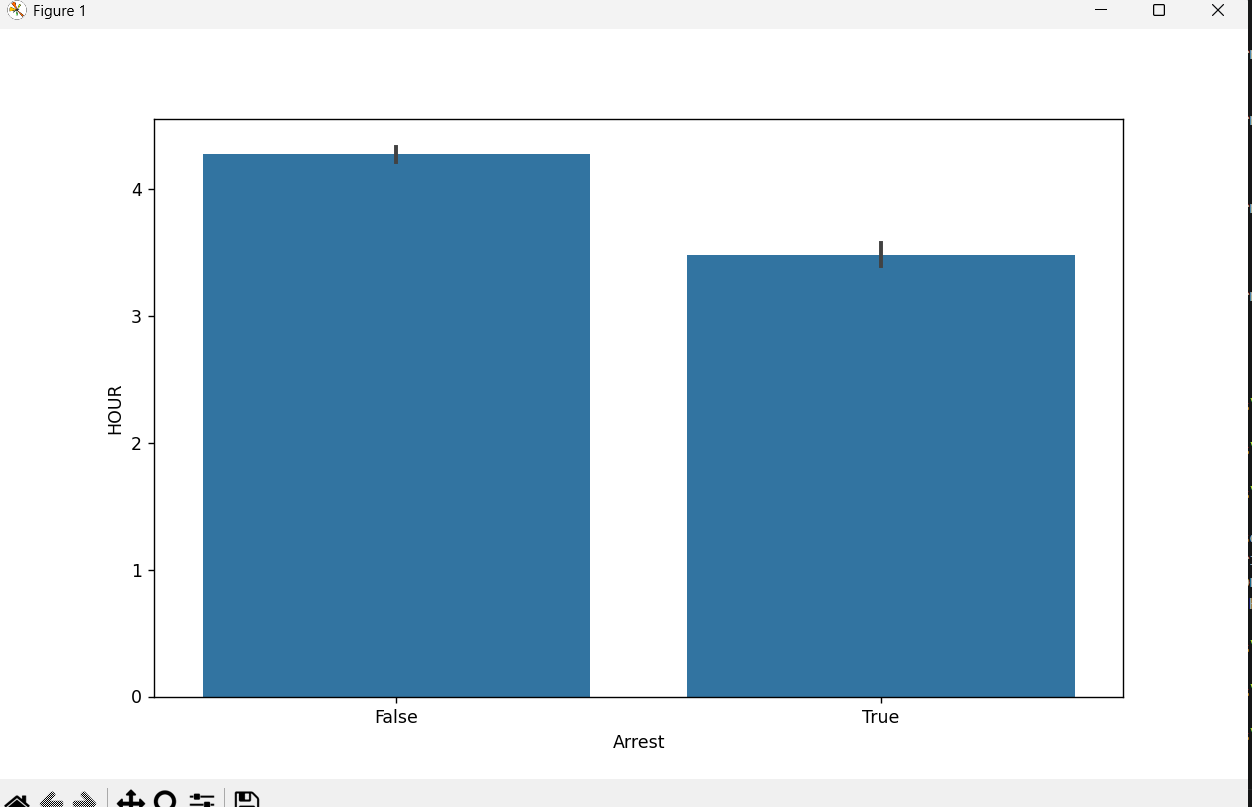
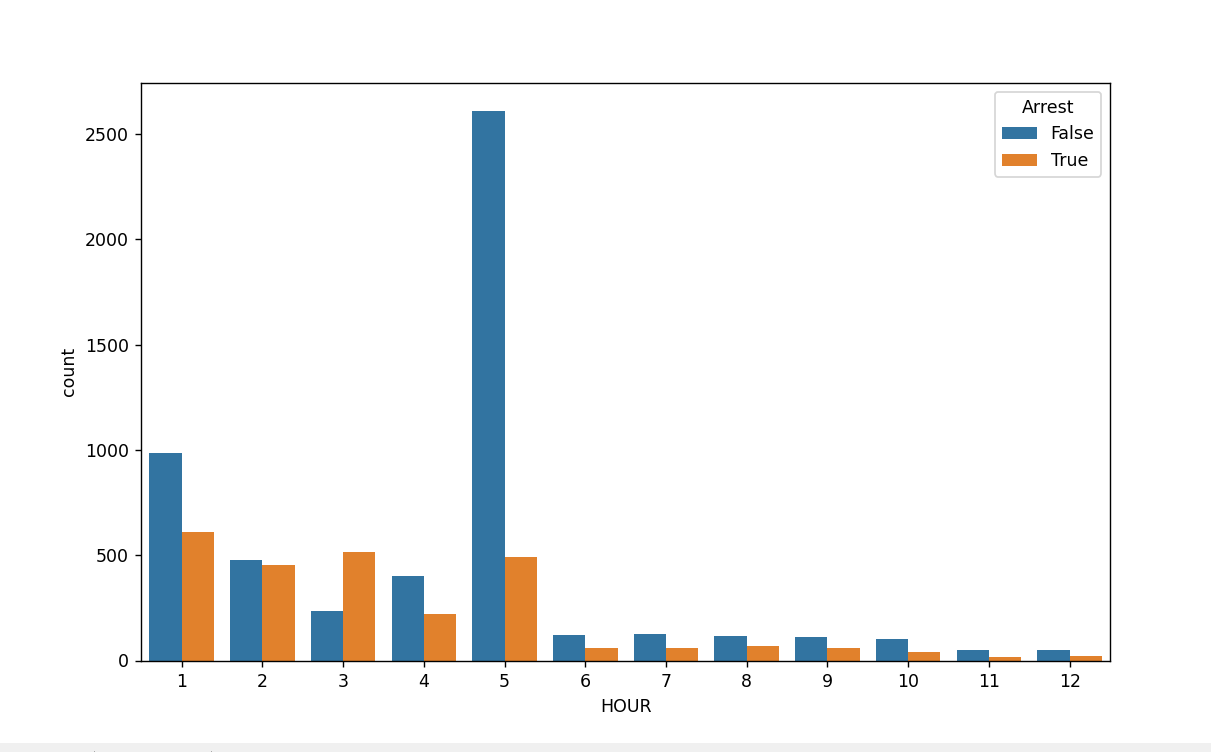
PHASE 2 AND 3
CONVERTED LIST TO NUMBER FORMAT AND REMOVED UNWANTED LIST

diff --git a/notebooks/ml.py b/notebooks/ml.py
@@ -4,22 +4,95 @@ import seaborn as sns
 from sklearn.tree import DecisionTreeClassifier
 from sklearn.model_selection import train_test_split 
 from sklearn.metrics import mean_absolute_error
+from sklearn.metrics import accuracy_score
 from sklearn.ensemble import RandomForestClassifier
 df=pd.read_csv('C:\\Users\\thoma\\Downloads\\cca\\data\\new.csv')
 #print(df.columns)
 #print(df.dtypes)
 
 # I am dropping Unamed, ID because they are not useful for the model
-df.drop(["Unnamed: 0","ID"],axis=1,inplace=True)
+df.drop(["Unnamed: 0","ID","Case Number","FBI Code","Updated On","Description","X Coordinate","Y Coordinate","Community Area","Ward","Beat","Year","Location","IUCR","Block"
+         ],axis=1,inplace=True)
 #print(df.columns)
 df["Date"] = pd.to_datetime(df["Date"], errors="coerce")
 #print(df.Date.dtypes)
 #print((str(df["Date"][1]))[11:])
 #print(df["Date"][1])
-df["HOUR"]=df["Date"].dt.year
+'''df["HOUR"]=df["Date"].dt.hour
 plt.figure(figsize=(10,6))
-sns.lineplot(x="HOUR",y="Arrest",data=df)
-plt.show()
+sns.countplot(x="HOUR",hue="Arrest",data=df)
+plt.show()'''
+df["YEAR"]=df["Date"].dt.year
 df["MONTH"]=df["Date"].dt.month
+df["HOUR"]=df["Date"].dt.hour
+
+df.drop(["Date"],axis=1,inplace=True)
+df["Primary Type"]=df["Primary Type"].replace({"THEFT":0,"ROBBERY":1,"WEAPONS VIOLATION":2,"SEX OFFENSE":3,})
+df=df.astype({"Primary Type":'int64'})
+print(df.dtypes)
+
+
+
+
+'''
+#Num of Non Arrests vs Arrests
+plt.figure(figsize=(10,6))
+sns.countplot(x="Arrest",data=df)
+plt.show()
+
+
+#Crime rate by hour
+plt.figure(figsize=(10,6))
+sns.countplot(x="HOUR",data=df)
+plt.show()
+
+#Crime rate by monnth
+plt.figure(figsize=(10,6))
+sns.countplot(x="MONTH",data=df)
+plt.show()
+
+#Which crimes result more in an arrest
+d=pd.crosstab(df["Primary Type"],df["Arrest"])
+#print(d.head())
+plt.figure(figsize=(10,6))
+sns.heatmap(data=d,annot=True)
+plt.show()
+
+plt.figure(figsize=(10,6))
+sns.countplot(x="District",hue="Arrest",data=df)
+plt.show()
+
+
+'''
+
+top_10_locations = df["Location Description"].value_counts().head(10).index
+#print(top_10_locations)
+
+# Trying to see if there is a relationship between location and arrest rate
+'''filtered_location_df = df[df["Location Description"].isin(top_10_locations)]
+print(filtered_location_df)
+print(filtered_location_df["Location Description"].value_counts())
+print(filtered_location_df)
+plt.figure(figsize=(10,6))
+sns.countplot(x="Location Description",hue="Arrest",data=filtered_location_df)
+plt.xticks(rotation=90)
+plt.show()'''
+topl = df["Location Description"].value_counts().index
+topl=list(topl)
+#print(len(topl))
+dict1={}
+for i in range(len(topl)):
+    dict1[topl[i]]=i
+#print(dict1)
+df["Location Description"]=df["Location Description"].replace(dict1)
+df=df.astype({"Location Description":'int64'})
+#print(df["Location Description"].dtypes)
+predict_list=["Primary Type","Location Description","District","YEAR","MONTH","HOUR","Domestic","Latitude","Longitude"]
+
+
+
+
+
+
 
 

diff --git a/mistakes.md b/mistakes.md
@@ -49,3 +49,49 @@ when u commit u can use two -m -m the first -m means the git name and the second
 
 git commit --amend --no-edit
 
+------------
+
+So a new command i learnt is countplot which basically counts the num of times something happens. 
+
+---------
+
+d=pd.crosstab(df["Primary Type"],df["Arrest"])
+print(d.head())  
+
+CROSSTAB Automatically creates two tables this is used for heatmaps
+-------
+
+I used apply to change the values form str64 to 01234 but that wont work as intended as you cant pass dictionary as a function
+
+
+--------
+You cannot acces a dataset by selecting or putting it as df[0] it has to be sliced df[0:1] so this will select first row and leave the rest or u can use iloc and loc.
+
+-------
+idmax gets the id of the highest value_counts()
+
+
+top_10_locations = df["Location Description"].value_counts().head(10).index
+print(top_10_locations)
+
+# 2. Filter your dataframe to keep ONLY those 10 locations
+filtered_location_df = df[df["Location Description"].isin(top_10_locations)]
+print(filtered_location_df["Location Description"].value_counts())
+print(filtered_location_df) 
+
+---------------
+Q: Why does my filtered DataFrame still show an index of 7999 and look like it has 8,000 rows even after running df[df["Location Description"].isin(top_10_locations)]?
+A: Your filter is working perfectly, but pandas preserves the original index labels of the rows when it filters data. It does not automatically renumber them from 0.
+If row 7996 was a location outside your top 10 (like "AIRCRAFT"), pandas dropped it. If row 7999 was inside your top 10 (like "RESIDENCE"), pandas kept it and left its label as 7999. The presence of 7999 at the bottom just means the last row of your original dataset passed the filter, not that you still have 8,000 rows.
+To see the actual number of remaining rows and reset the numbering cleanly, use:
+
+# Check the true number of rows remaining
+print("Actual rows remaining:", len(filtered_location_df))
+# Reset the index numbering so it starts from 0 with no gapsclean_index_df = filtered_location_df.reset_index(drop=True)
+print(clean_index_df)
+
+------------------------------
+Now that you have verified how pandas filters rows and handles indexes, would you like to move on to encoding your variables for the machine learning model, or do you want to explore the relationship plots next?
+
+
+

diff --git a/STEPS.md b/STEPS.md
@@ -7,3 +7,27 @@ I dropped unnamed and ID even tho they are useful for the police not for me.
 
 Now the DATE i wanted to see if the time of the day also contirubtes to whether an arrest happens or not but date was in STR format so i converted it to datetypeformat. I did not knnow about this before i knew as_Type but not datetime. All corrections are covered in  mistakes.md.
 
+So first I am comparing arrests with year to see significance.
+It is significant so we keep it 
+![alt text](image.png)
+Month also plays a huge role 
+
+![alt text](image-1.png)
+
+And so does Hour with the same graph as above 
+
+![alt text](image-2.png)
+
+Now Description and Primary Type overlap so im dropping Description.
+
+
+Now in the DATA ANALYTICS PART of the program there are different graphs the msot important one is --
+
+![alt text](image-3.png)
+
+Which shows the relationship between the crime type and arrest date
+
+So according to this imagge 1.8e +03 means  1.8 * 10^3
+
+And it shows that for most crimes Non Arrest rate is more than arrest rate hecne higher probability to epxlain.
+
